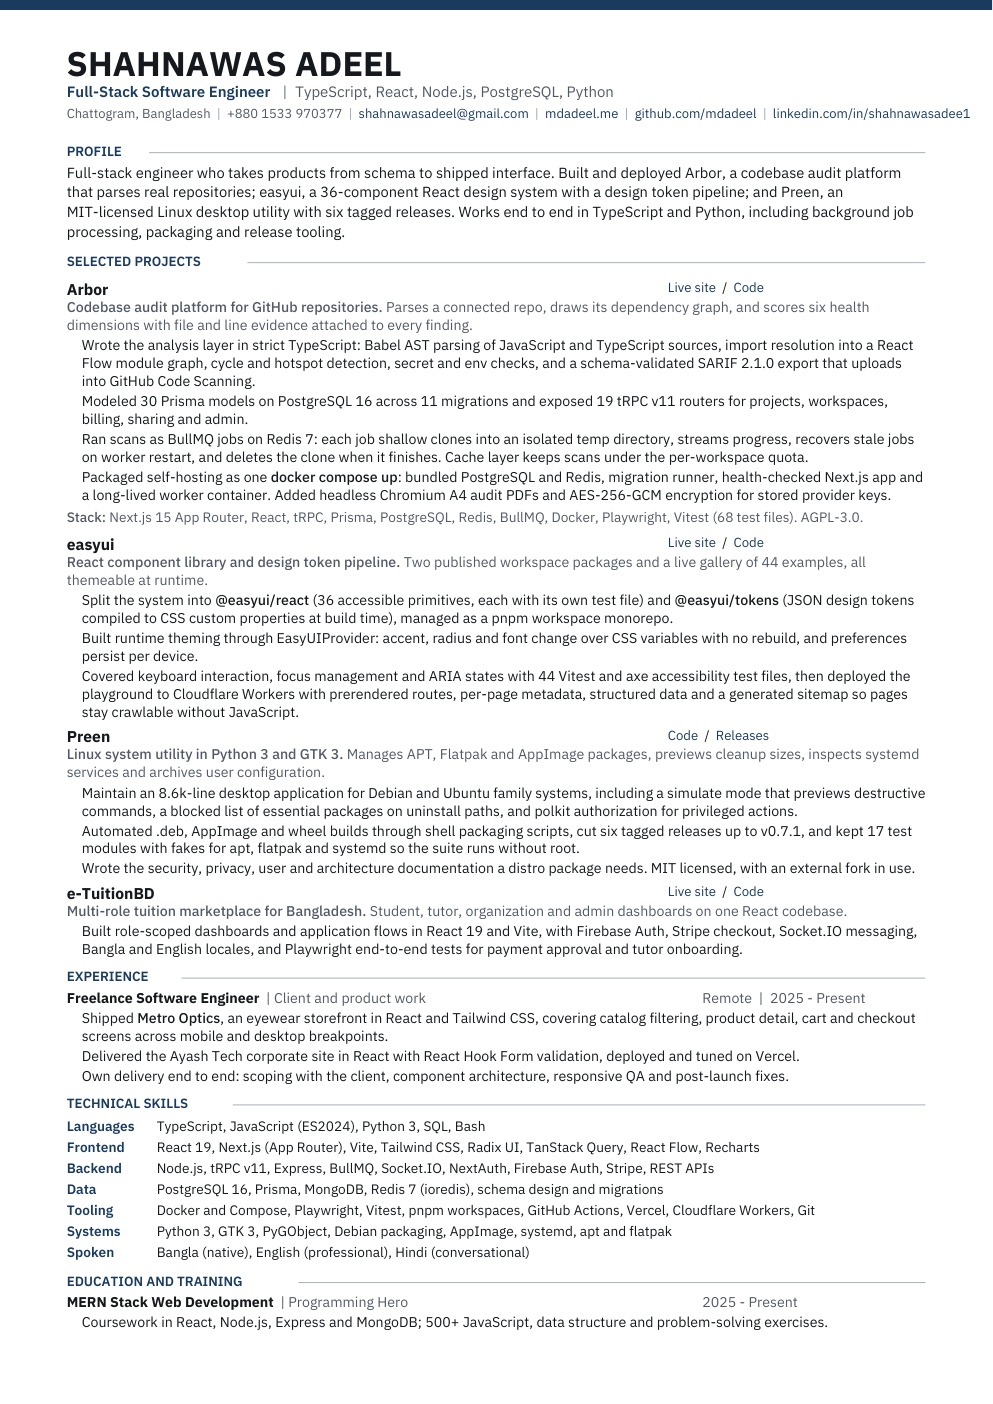
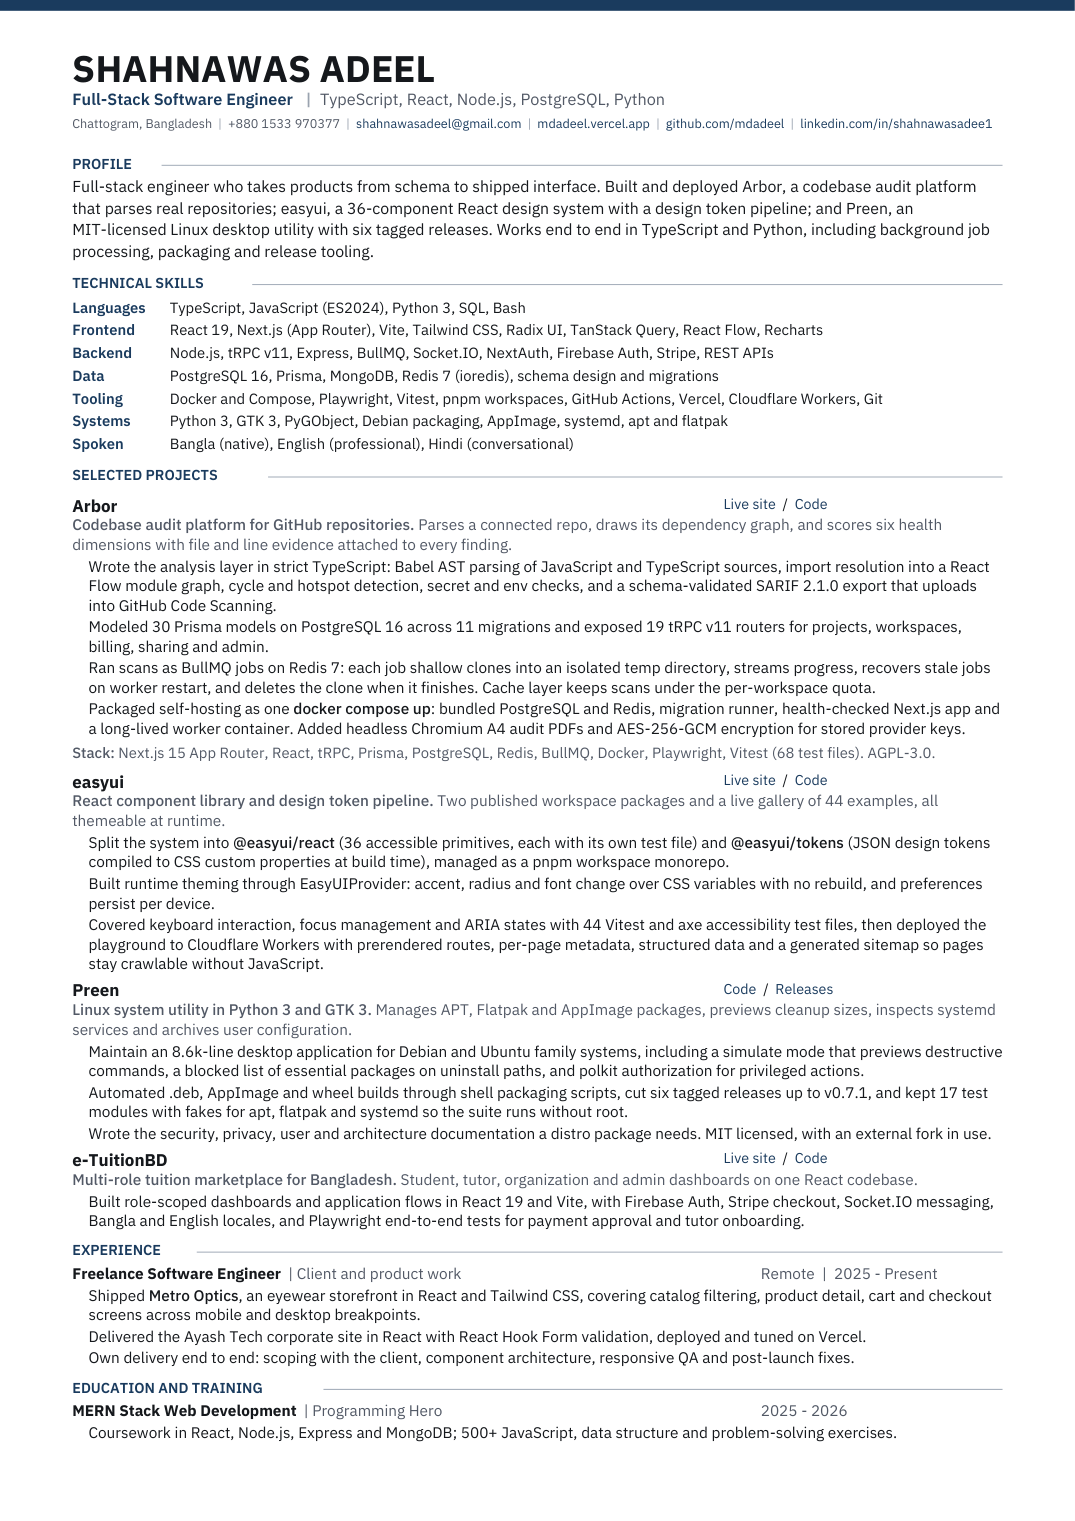
Resume: move Technical Skills above Selected Projects, update education dates and portfolio URL

Changed region(s): [[0.0624, 0.0306, 0.9678, 0.9494], [0.999, 0.0, 1.0, 0.0306]]

diff --git a/resume/build_resume.py b/resume/build_resume.py
@@ -126,25 +126,33 @@ class Header(Flowable):
         c.drawString(role_w + 15, y, "TypeScript, React, Node.js, PostgreSQL, Python")
 
         y = self.H - 41.0
-        c.setFont("Plex", 7.8)
         parts = [
             ("Chattogram, Bangladesh", None),
             ("+880 1533 970377", None),
             ("shahnawasadeel@gmail.com", "mailto:shahnawasadeel@gmail.com"),
-            ("mdadeel.me", "https://mdadeel.me/"),
+            ("mdadeel.vercel.app", "https://mdadeel.vercel.app/"),
             ("github.com/mdadeel", "https://github.com/mdadeel"),
             ("linkedin.com/in/shahnawasadee1", "https://www.linkedin.com/in/shahnawasadee1/"),
         ]
         sep = "  |  "
+        # shrink to fit the text column, never below 7.0pt
+        size = 7.8
+        while size > 7.0:
+            w_total = sum(c.stringWidth(t, "Plex", size) for t, _ in parts) + c.stringWidth(sep, "Plex", size) * (len(parts) - 1)
+            if w_total <= CONTENT_W:
+                break
+            size -= 0.1
         x = 0
         for text, url in parts:
             if x > 0:
                 c.setFillColor(HexColor("#9AA3B0"))
+                c.setFont("Plex", size)
                 c.drawString(x, y, sep)
-                x += c.stringWidth(sep, "Plex", 7.8)
+                x += c.stringWidth(sep, "Plex", size)
             c.setFillColor(LINK if url else MUTED)
+            c.setFont("Plex", size)
             c.drawString(x, y, text)
-            w = c.stringWidth(text, "Plex", 7.8)
+            w = c.stringWidth(text, "Plex", size)
             if url:
                 c.linkURL(url, (x, y - 1.8, x + w, y + 8.2), relative=0, thickness=0)
             x += w
@@ -241,6 +249,29 @@ story.append(
         S_SUMMARY,
     )
 )
+
+# ---- skills
+story.append(SectionHeading("Technical Skills"))
+skills = [
+    ("Languages", "TypeScript, JavaScript (ES2024), Python 3, SQL, Bash"),
+    ("Frontend", "React 19, Next.js (App Router), Vite, Tailwind CSS, Radix UI, TanStack Query, React Flow, Recharts"),
+    ("Backend", "Node.js, tRPC v11, Express, BullMQ, Socket.IO, NextAuth, Firebase Auth, Stripe, REST APIs"),
+    ("Data", "PostgreSQL 16, Prisma, MongoDB, Redis 7 (ioredis), schema design and migrations"),
+    ("Tooling", "Docker and Compose, Playwright, Vitest, pnpm workspaces, GitHub Actions, Vercel, Cloudflare Workers, Git"),
+    ("Systems", "Python 3, GTK 3, PyGObject, Debian packaging, AppImage, systemd, apt and flatpak"),
+    ("Spoken", "Bangla (native), English (professional), Hindi (conversational)"),
+]
+rows = [[Paragraph(f"<font name='Plex-Semi' color='#1B3B5F'>{k}</font>", st("k", fontSize=8.2, leading=10.4)),
+         Paragraph(v, st("v", fontSize=8.2, leading=10.4))] for k, v in skills]
+tbl = Table(rows, colWidths=[54, CONTENT_W - 54])
+tbl.setStyle(TableStyle([
+    ("VALIGN", (0, 0), (-1, -1), "TOP"),
+    ("LEFTPADDING", (0, 0), (-1, -1), 0),
+    ("RIGHTPADDING", (0, 0), (-1, -1), 0),
+    ("TOPPADDING", (0, 0), (-1, -1), 1.1),
+    ("BOTTOMPADDING", (0, 0), (-1, -1), 1.1),
+]))
+story.append(tbl)
 
 # ---- selected work
 story.append(SectionHeading("Selected Projects"))
@@ -344,33 +375,10 @@ story.append(bullet(
     "Own delivery end to end: scoping with the client, component architecture, responsive QA and post-launch fixes."
 ))
 
-# ---- skills
-story.append(SectionHeading("Technical Skills"))
-skills = [
-    ("Languages", "TypeScript, JavaScript (ES2024), Python 3, SQL, Bash"),
-    ("Frontend", "React 19, Next.js (App Router), Vite, Tailwind CSS, Radix UI, TanStack Query, React Flow, Recharts"),
-    ("Backend", "Node.js, tRPC v11, Express, BullMQ, Socket.IO, NextAuth, Firebase Auth, Stripe, REST APIs"),
-    ("Data", "PostgreSQL 16, Prisma, MongoDB, Redis 7 (ioredis), schema design and migrations"),
-    ("Tooling", "Docker and Compose, Playwright, Vitest, pnpm workspaces, GitHub Actions, Vercel, Cloudflare Workers, Git"),
-    ("Systems", "Python 3, GTK 3, PyGObject, Debian packaging, AppImage, systemd, apt and flatpak"),
-    ("Spoken", "Bangla (native), English (professional), Hindi (conversational)"),
-]
-rows = [[Paragraph(f"<font name='Plex-Semi' color='#1B3B5F'>{k}</font>", st("k", fontSize=8.2, leading=10.4)),
-         Paragraph(v, st("v", fontSize=8.2, leading=10.4))] for k, v in skills]
-tbl = Table(rows, colWidths=[54, CONTENT_W - 54])
-tbl.setStyle(TableStyle([
-    ("VALIGN", (0, 0), (-1, -1), "TOP"),
-    ("LEFTPADDING", (0, 0), (-1, -1), 0),
-    ("RIGHTPADDING", (0, 0), (-1, -1), 0),
-    ("TOPPADDING", (0, 0), (-1, -1), 1.1),
-    ("BOTTOMPADDING", (0, 0), (-1, -1), 1.1),
-]))
-story.append(tbl)
-
 # ---- education
 story.append(SectionHeading("Education and Training"))
 story.append(role("<font name='Plex-Bold'>MERN Stack Web Development</font> &nbsp;<font color='#525A66'>| Programming Hero</font>",
-                  "2025 - Present"))
+                  "2025 - 2026"))
 story.append(bullet(
     "Coursework in React, Node.js, Express and MongoDB; 500+ JavaScript, data structure and problem-solving "
     "exercises."
